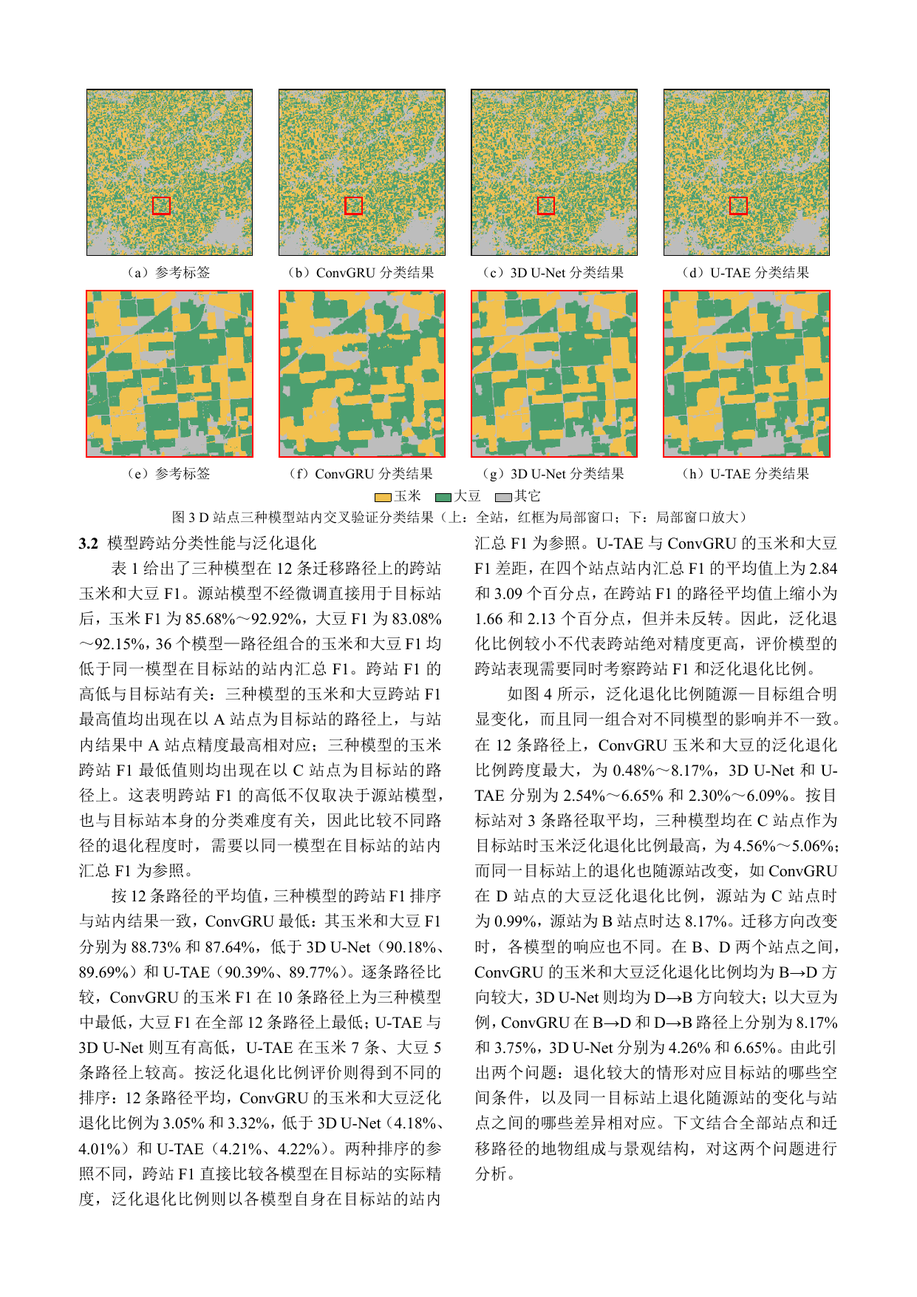
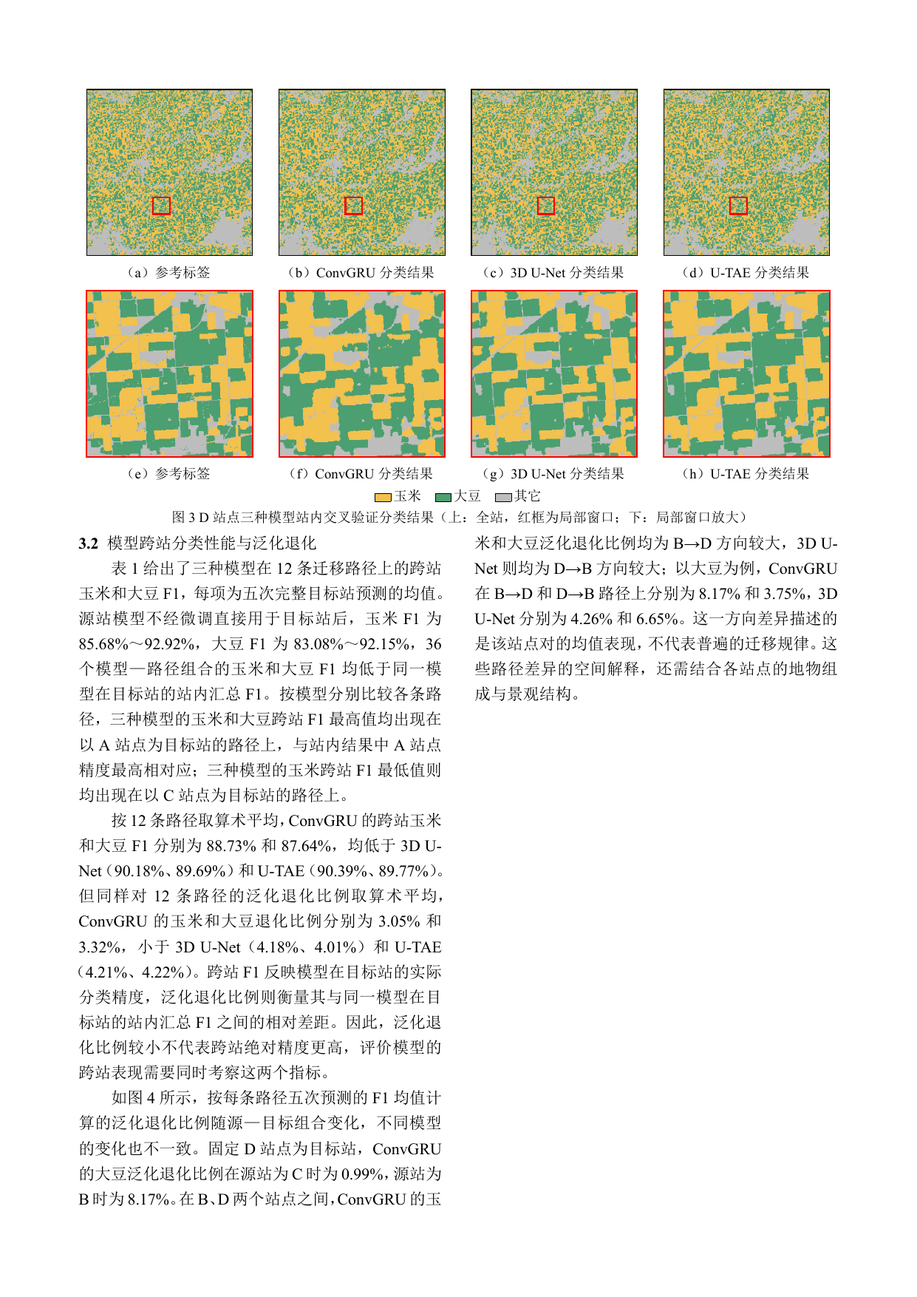
收紧3.2论述并完成数字、版面与预览核查
保留三段、完整跨站F1表和六子图，删除过度解释及重复数字；同步写作规则、旧稿使用边界和交接状态。记录本轮summary核对、编译结果及预览哈希，保留既有验证历史。

Changed region(s): [[0.0919, 0.431, 0.4899, 0.9544], [0.5205, 0.4002, 0.9186, 0.9236]]

diff --git a/sections/04_results.tex b/sections/04_results.tex
@@ -83,7 +83,7 @@
 %       results/summary/crop_f1_relative_degradation_36paths.csv（图 4，泛化退化比例）
 % 数字 2026-09-27 从上述文件现算；第一段范围取表内 36 格，最高值、最低值所在路径按模型逐一核对。
 
-表\ref{tab:cross_site_f1_paths}给出了三种模型在12条迁移路径上的跨站玉米和大豆F1。源站模型不经微调直接用于目标站后，玉米F1为85.68\%～92.92\%，大豆F1为83.08\%～92.15\%，36个模型—路径组合的玉米和大豆F1均低于同一模型在目标站的站内汇总F1。跨站F1的高低与目标站有关：三种模型的玉米和大豆跨站F1最高值均出现在以A站点为目标站的路径上，与站内结果中A站点精度最高相对应；三种模型的玉米跨站F1最低值则均出现在以C站点为目标站的路径上。这表明跨站F1的高低不仅取决于源站模型，也与目标站本身的分类难度有关，因此比较不同路径的退化程度时，需要以同一模型在目标站的站内汇总F1为参照。
+表\ref{tab:cross_site_f1_paths}给出了三种模型在12条迁移路径上的跨站玉米和大豆F1，每项为五次完整目标站预测的均值。源站模型不经微调直接用于目标站后，玉米F1为85.68\%～92.92\%，大豆F1为83.08\%～92.15\%，36个模型—路径组合的玉米和大豆F1均低于同一模型在目标站的站内汇总F1。按模型分别比较各条路径，三种模型的玉米和大豆跨站F1最高值均出现在以A站点为目标站的路径上，与站内结果中A站点精度最高相对应；三种模型的玉米跨站F1最低值则均出现在以C站点为目标站的路径上。
 
 \begin{table*}[tbp]
 \centering
@@ -108,20 +108,15 @@
 \end{table*}
 
 % 第二段：12 条路径平均跨站 F1（表末行）；平均泛化退化比例 = 12 条路径比例的算术平均。
-% 站内差距用四站点站内汇总 F1 平均值（每个目标站在 12 条路径中各出现 3 次，与路径平均的基准一致）：
-%   U-TAE − ConvGRU 站内 2.84 / 3.09 个百分点，跨站 1.66 / 2.13 个百分点（玉米 / 大豆）。
-% 路径计数只作描述，不作独立重复试验；本文不使用 Friedman / Wilcoxon–Holm 结果。
+% 两种排序分别对应实际精度与相对同一模型目标站当地训练基准的差距。
 
-按12条路径的平均值，三种模型的跨站F1排序与站内结果一致，ConvGRU最低：其玉米和大豆F1分别为88.73\%和87.64\%，低于3D U-Net（90.18\%、89.69\%）和U-TAE（90.39\%、89.77\%）。逐条路径比较，ConvGRU的玉米F1在10条路径上为三种模型中最低，大豆F1在全部12条路径上最低；U-TAE与3D U-Net则互有高低，U-TAE在玉米7条、大豆5条路径上较高。按泛化退化比例评价则得到不同的排序：12条路径平均，ConvGRU的玉米和大豆泛化退化比例为3.05\%和3.32\%，低于3D U-Net（4.18\%、4.01\%）和U-TAE（4.21\%、4.22\%）。两种排序的参照不同，跨站F1直接比较各模型在目标站的实际精度，泛化退化比例则以各模型自身在目标站的站内汇总F1为参照。U-TAE与ConvGRU的玉米和大豆F1差距，在四个站点站内汇总F1的平均值上为2.84和3.09个百分点，在跨站F1的路径平均值上缩小为1.66和2.13个百分点，但并未反转。因此，泛化退化比例较小不代表跨站绝对精度更高，评价模型的跨站表现需要同时考察跨站F1和泛化退化比例。
+按12条路径取算术平均，ConvGRU的跨站玉米和大豆F1分别为88.73\%和87.64\%，均低于3D U-Net（90.18\%、89.69\%）和U-TAE（90.39\%、89.77\%）。但同样对12条路径的泛化退化比例取算术平均，ConvGRU的玉米和大豆退化比例分别为3.05\%和3.32\%，小于3D U-Net（4.18\%、4.01\%）和U-TAE（4.21\%、4.22\%）。跨站F1反映模型在目标站的实际分类精度，泛化退化比例则衡量其与同一模型在目标站的站内汇总F1之间的相对差距。因此，泛化退化比例较小不代表跨站绝对精度更高，评价模型的跨站表现需要同时考察这两个指标。
 
 % 第三段：图 4 数据 results/summary/crop_f1_relative_degradation_36paths.csv。
-% 比例跨度：ConvGRU 0.48–8.17（玉米 0.72–5.83，大豆 0.48–8.17）；3D U-Net 2.54–6.65；U-TAE 2.30–6.09。
-% 按目标站对 3 条路径取平均的玉米比例，三模型均以 C 最高：ConvGRU 4.56、3D U-Net 5.03、U-TAE 5.06。
-% ConvGRU 大豆、目标站 D：C→D 5 次为 0.86–1.09，B→D 为 3.63–11.95。
-% B、D 之间方向：ConvGRU 玉米、大豆均 B→D 较大，3D U-Net 均 D→B 较大；玉米两模型 5 次预测完全分开，大豆各有 1 次重叠。
-%   U-TAE 的方向差异主要由单次预测拉动（玉米 B→D 5 次 4.20–7.66，D→B 3.45–4.74），正文不用作方向证据。
+% 固定目标站 D：ConvGRU 大豆 C→D 0.99%、B→D 8.17%。
+% B↔D：ConvGRU 玉米、大豆均 B→D 较大，3D U-Net 均 D→B 较大；比较基于各路径五次预测均值。
 
-如图\ref{fig:degradation_heatmap}所示，泛化退化比例随源—目标组合明显变化，而且同一组合对不同模型的影响并不一致。在12条路径上，ConvGRU玉米和大豆的泛化退化比例跨度最大，为0.48\%～8.17\%，3D U-Net和U-TAE分别为2.54\%～6.65\%和2.30\%～6.09\%。按目标站对3条路径取平均，三种模型均在C站点作为目标站时玉米泛化退化比例最高，为4.56\%～5.06\%；而同一目标站上的退化也随源站改变，如ConvGRU在D站点的大豆泛化退化比例，源站为C站点时为0.99\%，源站为B站点时达8.17\%。迁移方向改变时，各模型的响应也不同。在B、D两个站点之间，ConvGRU的玉米和大豆泛化退化比例均为B→D方向较大，3D U-Net则均为D→B方向较大；以大豆为例，ConvGRU在B→D和D→B路径上分别为8.17\%和3.75\%，3D U-Net分别为4.26\%和6.65\%。由此引出两个问题：退化较大的情形对应目标站的哪些空间条件，以及同一目标站上退化随源站的变化与站点之间的哪些差异相对应。下文结合全部站点和迁移路径的地物组成与景观结构，对这两个问题进行分析。
+如图\ref{fig:degradation_heatmap}所示，按每条路径五次预测的F1均值计算的泛化退化比例随源—目标组合变化，不同模型的变化也不一致。固定D站点为目标站，ConvGRU的大豆泛化退化比例在源站为C时为0.99\%，源站为B时为8.17\%。在B、D两个站点之间，ConvGRU的玉米和大豆泛化退化比例均为B→D方向较大，3D U-Net则均为D→B方向较大；以大豆为例，ConvGRU在B→D和D→B路径上分别为8.17\%和3.75\%，3D U-Net分别为4.26\%和6.65\%。这一方向差异描述的是该站点对的均值表现，不代表普遍的迁移规律。这些路径差异的空间解释，还需结合各站点的地物组成与景观结构。
 
 \begin{figure*}[tbp]
 \centering

diff --git a/verification/verification-report.md b/verification/verification-report.md
@@ -21,3 +21,39 @@
 | main.tex 编译（含 3.1 图文） | latexmk -xelatex，exit 0 | Verified | 2026-09-19 | — |
 | citation key | 与 references.bib 核对 | Not verified | — | bib 已导入 71 条，正文尚无 \cite |
 | 正文数字可追溯 | 与 results/summary 核对 | Partially verified | 2026-09-19 | 3.1 已核；3.2、3.3 未写 |
+
+## 3.2 收尾验证（2026-09-29）
+
+本轮状态：**Verified（限本轮 3.2 收尾范围）**。以上表格保留为历史记录，其中“3.2 未写”“36 路径”和旧 ΔF1 图口径不作为当前状态。当前跨站实验为 12 条有向迁移路径、36 个模型—路径组合，每组合五次完整目标站预测；正文采用跨站绝对 F1 + 泛化退化比例 DR。
+
+### 本轮实际执行
+
+| 验证对象 | 验证方式与范围 | 结果 |
+|---|---|---|
+| 三段正文数字与比较 | 从当前 summary 只读复算，逐段匹配全部 22 处百分数；核对 12 条路径、36 个组合、每组合五次预测、全部 72 个跨站 F1 低于同一模型目标站基准、A 站最高值及 C 站玉米最低值 | Verified |
+| 模型均值与方向 | 分别计算每模型 12 条路径平均 F1、平均 DR；核对固定目标站 D 的 ConvGRU 大豆 C→D/B→D，以及 ConvGRU、3D U-Net 玉米和大豆的 B↔D 方向 | Verified |
+| 五次均值口径与 DR 公式 | 180 行 `cross_site_crop_f1_per_fold.csv` 按 36 个组合核对每组五个折，重算均值和样本标准差，与 summary 的最大差异分别为 6.0×10⁻⁷、6.71×10⁻⁷；72 个 DR 与目标站基准公式的最大差异 4.94×10⁻⁷（百分数单位），均在六位小数导出舍入容差内 | Verified |
+| 完整跨站 F1 表 | 72 个路径精度值及 6 个模型均值逐格对照 summary、CSV 和 LaTeX 表体，同时核对源—目标路径标签 | Verified |
+| 六子图热力图 | 直接读取现有六个子图 PDF：72 个数值及其源站行、目标站列坐标与 DR summary 一致；图件未重新绘制 | Verified |
+| 正文边界与相关规则 | 三段保留；不作分类难度归因、不称 DR 消除站点差异、不以 DR 小判断泛化更强、不推广方向规律；相关计划与风格条目已同步，旧稿迁移安排已标为停用历史 | Verified |
+| 修改范围 | 与基线 `92b58a2` 对照：3.1、3.3、方法、实验数据、处理脚本、表体、正式图件、主文件和 `.gitignore` 未变；未改变早停或实验设计 | Verified |
+| 编译与交叉引用 | `latexmk -xelatex -interaction=nonstopmode -halt-on-error main.tex`，exit 0，6 页；日志无 Overfull/Underfull、未定义引用或 LaTeX 错误；辅助文件确认图 3/3.2 在第 4 页、表 1/图 4 在第 5 页、3.3 标题在第 6 页 | Verified |
+| 当前版面与预览 | 从本轮 `main.pdf` 渲染第 3—5 页并逐页查看：标题归属和图表顺序正确，无文字截断或溢出；通栏表图延后，未调整间距强行塞页。另独立逐页渲染，PNG 的 SHA-256 与保存预览逐一一致 | Verified |
+
+正文数值复算结果（模型顺序 ConvGRU / 3D U-Net / U-TAE）：跨站玉米 F1 范围 85.68%～92.92%，大豆 83.08%～92.15%；路径平均玉米 F1 为 88.73% / 90.18% / 90.39%，大豆为 87.64% / 89.69% / 89.77%；平均玉米 DR 为 3.05% / 4.18% / 4.21%，大豆为 3.32% / 4.01% / 4.22%。ConvGRU 大豆 C→D 为 0.99%，B→D 为 8.17%，D→B 为 3.75%；3D U-Net 大豆 B→D 为 4.26%，D→B 为 6.65%。
+
+执行说明：两次内联核查先后因正文行定位未匹配、正则转义而报 `StopIteration`、`re.error: bad escape \\l`，均未作为通过依据；随后在系统临时目录运行明确定位正文和图表结构的两份只读核查脚本，以上断言全部通过。`git diff --check` 首次发现本报告末尾多余空行，修正后复查通过。临时核查脚本不属于实验数据处理链。
+
+### 编译产物与预览绑定
+
[1 lines of base64/hex data omitted]
+- 当前预览：`output/sec32_p-{3,4,5}.png`，2026-09-29 01:36:08—09 +08:00 由上述 PDF 以 150 dpi 渲染。第 4 页为图 3 与 3.2 三段正文，第 5 页为完整跨站 F1 表和图 4。
+- `output/table_page_preview.png`、`output/figure4_page_preview.png` 同步为当前第 5 页的逐字节副本。`results_layout-*`、`results_spacing-*` 仅为保留的历史预览。
+- `output/preview-manifest.json` 记录 PDF、源码锚点、所有当前预览的哈希和生成时间。构建基线为 `92b58a2` 加本轮工作区修改；构建时未提交，不把基线提交本身误称为这次 PDF 对应的完整版本。
+- 现有告警仍为 xeCJK 字体族重定义、SimSun/SimHei 字形替代和空参考文献。它们不影响本轮 3.2 的数字及版面核对，但本轮没有消除这些全文层面问题。
+
+### 既有验证与未验证项
+
+- 既有 raw→summary 全链验证：引用 `plan/progress.md` 中“3.2 起草与接手核查（2026-09-26—27）”及 `plan/claims.md` C4 的记录；原记录包含上游与 raw 逐项一致、站内汇总矩阵等于五折之和、由混淆矩阵重算 F1/OA/DR。**本轮未重跑该全链**，只核对数据与处理脚本未变，并执行以上 summary→正文/图表的检查。
+- **Not verified（本轮未执行）**：重新训练、外部原始实验复跑、文献元数据与全文引用验证、研究区图和其它章节的全面审查、3.3 空间分析与分组处理链。未把这些项目列为本轮完成。
+- 历史核查记录不覆盖或删除；3.2 本轮技术验证完成不等于整篇论文定稿。

diff --git a/HANDOVER.md b/HANDOVER.md
@@ -1,6 +1,6 @@
 # 论文写作系统交接文档
 
-**最后更新**：2026-09-28
+**最后更新**：2026-09-29
 
 ## 一句话状态
 
@@ -30,11 +30,11 @@
 - 3.1 已润色定稿：第一段讲三模型共同表现，第二段结合图 3 讲差异。
 - 图 2、图 3 已按 3.8 cm 基本单元、逐子图 PDF、LaTeX 文本图题与图例的规范提交。
 - 结果章固定为 3.1—3.3，当前不设第三级标题。
-- 3.2 三段草稿已写（2026-09-27，待作者审阅），标题已移出表格浮动体、回到正文段首。第一段引表讲跨站绝对 F1 与全部组合低于目标站站内基准；第二段比较路径平均跨站 F1 与平均泛化退化比例 DR 两种排序；第三段引图 4 讲源—目标组合与迁移方向差异，引出 3.3 两个问题。
+- 3.2 三段已完成本轮收尾（2026-09-29，待作者审阅）。第一段只报告跨站 F1、目标站基准及 A/C 站观察，不推断分类难度；第二段集中比较 12 条路径的平均 F1 与平均 DR，删去重复排名和模型差距数字；第三段保留固定目标站 D 的源站差异与 B↔D 两模型方向差异，限于五次预测均值，用一句话衔接空间分析。
 - 作者决定（2026-09-27）：正文只用跨站绝对 F1 + DR；方法删去 ΔF1 独立公式和 Friedman/Wilcoxon–Holm 段落，脚本与结果文件保留追溯；正文不作显著性结论，路径计数只作描述；写“DR 较小不代表跨站绝对精度更高”。
 - 四站所在州已按研究区 SHP / 标签 GeoTIFF 叠加州界核实，`02_data.tex` 原“明尼苏达州”已改正。
 - 3.3 回答两个问题并覆盖全部站点和路径：目标站在哪些空间条件下退化较大；同一目标站的退化随源站变化与站点间哪些差异相对应。数据已生成但未入库：站点级 `D:/label/fragstats_results/`，图块级 `D:/cross_site_all_20260916/paper_tables/Patch级空间误差底表/`；分组 F1 处理链待建。
-- 图表位置：3.1 第一段 → 图 2 → 第二段 → 图 3；3.2 标题 → 第一段 → 表 → 第二、三段 → 图 4 → 3.3。标题移动后尚未编译复核分页。
+- 图表位置已编译核查（2026-09-29）：新 PDF 第 4 页为图 3 与 3.2 三段正文，第 5 页为表 1 和图 4，第 6 页起为 3.3 标题。允许通栏表图延后，未调整间距强行塞页；无未定义引用、文字截断或溢出。当前预览 `output/sec32_p-{3,4,5}.png` 及两个表图预览入口均来自新 PDF；生成时间、哈希与构建时版本状态见 `output/preview-manifest.json`，不用历史 `results_layout-*`、`results_spacing-*` 判断当前版面。
 - 引言、1.3、2.1 三模型、结论与摘要尚未完成。
 - 段落与各级标题前后间距统一为 0 pt，取消栏底对齐和浮动页间距拉伸；图表间距固定 3 pt（2026-09-23）。
 
@@ -51,7 +51,7 @@
 - `tables/table2_cross_site_summary.csv`：模型与作物汇总，只作分析备查。
 - `tables/table3_significance_tests.csv`：Friedman、Wilcoxon 与 Holm 校正结果，仅供追溯，不进入正文。
 
-数据处理链已从原始混淆矩阵重算验证（2026-09-26）；类别顺序为玉米、其它、大豆。退化必须以同一模型在目标站的站内汇总 F1 为基准，它是相对当地训练基准的差距，不是理论上限。
+数据处理链的既有验证见 `plan/progress.md` 2026-09-26—27 记录；类别顺序为玉米、其它、大豆。2026-09-29 本轮从 summary 核对 3.2 全部数值、表格和热力图，未重跑 raw→summary 全链；实验数据、处理脚本和正式图件未变。退化以同一模型在目标站的站内汇总 F1 为基准，表示相对当地训练基准的差距，不是理论上限，也不意味着已消除目标站差异。详细范围与未验证项见 `verification/verification-report.md` 本轮记录。
 
 ## 写作入口
 
@@ -66,10 +66,10 @@
 
 ## 下一步
 
-1. 作者审阅 3.2 草稿；编译复核图表位置与分页。
-2. 建立 3.3 分组处理链（先汇总混淆矩阵再算类别 F1），覆盖全部站点与路径，完成 3.3。
+1. 作者审阅 3.2 收尾稿；本轮数字与版面已核查，当前 PDF、预览和验证范围均已记录。
+2. 3.3 分组处理链与正文留待后续任务，本轮未扩展。
 3. 完成引言、1.3、2.1、结论与摘要，投稿空间泛化篇。
 
 ## Git 追溯
 
-作者要求整个写作系统的有效改动入库，任务收尾时核对暂存区、工作区和未跟踪文件均为空。参考论文 PDF、编译辅助文件及指定名称的页面预览在 `.gitignore` 中排除；正式图件、文献库和全部计划继续跟踪。范围与预览重建命令见 `README.md`。禁止用删除文件或忽略正文、计划、结果数据的方式制造干净状态；不 push。
+作者要求整个写作系统的有效改动入库，任务收尾时核对暂存区、工作区和未跟踪文件均为空。参考论文 PDF、编译辅助文件及指定名称的页面预览按既有规则排除；已跟踪的 `output/sec32_p-{3,4,5}.png` 继续更新并入库，`output/preview-manifest.json` 同步记录其来源。正式图件、文献库和全部计划继续跟踪。范围与预览重建命令见 `README.md`。禁止用删除文件或新增忽略规则制造干净状态；不 push。

diff --git a/plan/progress.md b/plan/progress.md
@@ -1,6 +1,6 @@
 # 项目进度
 
-本项目仅推进美国四站点空间泛化论文，当前重点为作者审阅 3.2 草稿和建立 3.3 空间解释的分组处理链。
+本项目仅推进美国四站点空间泛化论文。2026-09-29 已完成 3.2 最小范围收尾、数字核对、编译和当前预览更新，待作者审阅；3.3 未扩展。
 
 ## 阶段状态
 
@@ -14,17 +14,26 @@
 | 表格 | 已完成 | 3.2 正文采用 12 路径跨站 F1 完整表；模型汇总表和显著性表只作分析备查 |
 | 图 | 部分完成 | 图 2、图 3 已按定稿规范提交；图 4 为泛化退化比例热力图，两行三列、图框各 3.8 cm，上玉米下大豆；研究区图待复核，模型结构图待提取 |
 | 3.3 数据 | 已定位 | 站点级 FRAGSTATS 与图块级四张表已生成但未入库（路径见 claims C8）；分组 F1 处理链待建 |
-| 第 3 章正文 | 进行中 | 结果章固定为 3.1—3.3，不设第三级标题；3.1 已定稿；3.2 三段草稿已写（2026-09-27），待作者审阅；3.3 待写 |
+| 第 3 章正文 | 进行中 | 结果章固定为 3.1—3.3，不设第三级标题；3.1 已定稿；3.2 三段已收紧并完成本轮验证（2026-09-29），待作者审阅；3.3 本轮未写 |
 | 引言 / 结论 | 未开始 | — |
 | 文献 | 部分完成 | references.bib 当前共 73 条；五篇核心参考已建 evidence-map E1–E5；风格报告 3/5 篇 |
-| 审查 | 未开始 | — |
+| 审查 | 部分完成 | 2026-09-29 完成 3.2 本轮数字、口径、编译及预览检查；全文审查未开展 |
 | Word 输出 | 未开始 | — |
 
 ## 下一步
 
-1. 作者审阅 3.2 草稿；编译复核 3.2 标题移出浮动体后的图表位置与分页。
-2. 建立 3.3 分组处理链：按空间特征分组先汇总混淆矩阵再算类别 F1，覆盖全部站点和 12 条路径，回答两个问题（目标站空间条件；同一目标站随源站变化的对应因素）。
+1. 作者审阅已完成本轮收尾和验证的 3.2；当前 PDF 与预览入口见 `README.md`，版本绑定见 `output/preview-manifest.json`。不再沿用“尚未编译”的历史状态。
+2. 3.3 分组处理链与正文留待后续任务：按空间特征分组先汇总混淆矩阵再算类别 F1，覆盖全部站点和 12 条路径，回答目标站空间条件与站点间差异两个问题；本轮未开展。
 3. 完成引言、2.1 三模型、1.3 研究区空间特征、结论和摘要。
+
+## 3.2 最小范围收尾（2026-09-29）
+
+- Verified：保留三段、完整 F1 表和六子图。第一段删除分类难度推断；第二段只保留平均 F1 与平均 DR 的核心比较，移除重复路径计数及站内外差距成组数字；第三段保留目标站 D 的源站差异及 B↔D 两模型方向差异，明确五次预测均值与站点对边界，以一句话衔接空间分析。
+- Verified：当前 summary 复算与正文 22 处百分数一致，72 个跨站 F1 均低于相同模型的目标站站内基准；模型均值与方向正确。180 行逐次 summary 与五次均值/标准差一致（六位小数舍入容差内），72 个 DR 与公式一致；表中 72 个精度值及 6 个均值、热力图 72 个标注与行列位置全部核对。
+- Verified：`latexmk -xelatex -interaction=nonstopmode -halt-on-error main.tex` exit 0，PDF 6 页；第 4 页图 3 与 3.2 正文、第 5 页表 1 与图 4、第 6 页 3.3 标题；无 Overfull/Underfull、未定义引用、文字截断或溢出。保留现有字体替代与空参考文献告警，未改变间距或图表结构。
+- Verified：当前 `output/sec32_p-{3,4,5}.png` 从本轮 PDF 重新渲染，逐页独立复渲染的 SHA-256 相同；表格和图 4 的旧入口同步为新第 5 页。时间、PDF/源码/PNG 哈希和构建时版本状态见 `output/preview-manifest.json`；`results_layout-*`、`results_spacing-*` 仅作历史预览。
+- 已同步 style-guide 的显著性与退化差值旧指令、summary 说明的路径数量、README 的旧 Word 用途和预览入口；旧稿迁移地图整体标为停用历史，不删除原记录。claims、results-map、outline、paper-context、format-spec 与 HANDOVER 对齐本轮三段安排和实际状态。
+- 本轮未改实验数据、方法、早停、处理脚本、表体和正式图件；未扩展 3.3。raw→summary 全链引用下方 2026-09-26—27 的既有验证，本轮未重跑；文献与全文审查未执行。详见 `verification/verification-report.md` 本轮记录。
 
 ## 3.2 起草与接手核查（2026-09-26—27）
 

diff --git a/README.md b/README.md
@@ -11,7 +11,7 @@
 ├── main.tex               # LaTeX 主文件（XeLaTeX + ctex）
 ├── sections/              # 论文各章节 .tex 文件
 ├── plan/                  # 论文规划（大纲、术语、迁移地图等）
-├── legacy/manuscript/     # 旧 Word 论文（写作模式 + 格式基准 + 内容来源）
+├── legacy/manuscript/     # 旧 Word 论文（仅参考写作风格和格式，不作为内容来源）
 ├── evidence/              # 文献证据映射
 ├── bibliography/          # BibTeX 文献数据库
 ├── results/               # 实验数据（raw → processed → summary）
@@ -26,7 +26,7 @@
 ## 工作流
 
 ```
-旧 Word → plan → evidence → results → tables/figures
+论文问题与实验事实 → plan → evidence / results → tables/figures
                                           ↓
                                     sections/*.tex
                                           ↓
@@ -54,7 +54,14 @@ Zotero → Better BibTeX → Keep Updated → `bibliography/references.bib`
 
 正文、论文计划、交接与验证记录、文献库、数据处理脚本、结果汇总、表格和正式图件均纳入版本控制。参考论文 PDF 只保留在本地，文献元数据与阅读记录继续跟踪；已移出索引的 PDF 仍可从既有提交中追溯。
 
-`main.pdf`、LaTeX 辅助文件和 `output/` 下的页面预览不入库。页面预览由已跟踪的 LaTeX 与正式图件重新生成；只忽略指定预览文件名，不整体忽略 `output/`。编译命令为 `latexmk -xelatex -interaction=nonstopmode -halt-on-error main.tex`，页面预览可用 `pdftoppm -f 页码 -singlefile -png -r 160 main.pdf output/名称_page_preview` 导出。
+`main.pdf`、LaTeX 辅助文件和 `.gitignore` 已指定的页面预览不入库；已由 `92b58a2` 跟踪的 `output/sec32_p-{3,4,5}.png` 本轮继续跟踪并更新，不移出索引。`output/preview-manifest.json` 记录当前 PDF、源码和预览的 SHA-256、生成时间、页码及构建时版本状态。未新增忽略规则，也不整体忽略 `output/`。
+
+### 当前 3.2 PDF 与预览（2026-09-29）
+
+- [当前 PDF](main.pdf)：本轮编译生成，6 页；第 4 页为图 3 与 3.2 正文，第 5 页为完整跨站 F1 表与图 4。
+- [第 3 页](output/sec32_p-3.png)、[第 4 页正文](output/sec32_p-4.png)、[第 5 页表与图](output/sec32_p-5.png)：均从该 PDF 以 150 dpi 导出。
+- `output/table_page_preview.png`、`output/figure4_page_preview.png` 同步为当前第 5 页的副本；`results_layout-*`、`results_spacing-*` 保留为历史预览，不作为当前版面依据。
+- 编译：`latexmk -xelatex -interaction=nonstopmode -halt-on-error main.tex`。渲染：`pdftoppm -png -r 150 -f 3 -l 5 main.pdf output/sec32_p`。每次重建后按实际分页更新预览入口和 [预览清单](output/preview-manifest.json)，不得只更新 PDF 而继续使用旧 PNG。
 
 提交后以 `git status --porcelain=v1 --untracked-files=all` 输出为空核对工作区干净。未经作者指示不 push。
 
@@ -64,4 +71,4 @@ Zotero → Better BibTeX → Keep Updated → `bibliography/references.bib`
 - 真实数据优于旧正文
 - 验证优于"看起来完成"
 - 论文正文和项目管理信息严格分离
-- 旧 Word 决定写作模式和最终格式
+- 旧 Word 仅参考写作风格和最终格式，不迁移论点、数据或正文；`plan/migration-map.md` 仅保留已停用的历史安排

diff --git a/plan/results-map.md b/plan/results-map.md
@@ -38,12 +38,12 @@
 
 **图**：`figures/results/fig_degradation_heatmap_{a..f}.pdf` + `_cbar.pdf`。两行三列，上排玉米、下排大豆，各列依次为 ConvGRU、3D U-Net、U-TAE；图框各 3.8×3.8 cm（1 UNIT），两排下方共用横向色标，LaTeX 标签“泛化退化比例/%”。图示相对退化比例，用于比较源—目标组合差异及不同模型对迁移方向的响应，不据此判断区域组合与模型的影响主次。
 
-**正文组织**（2026-09-27 起草，不用第三级标题）：
-1. 跨站绝对 F1 范围，36 个组合全部低于目标站站内基准，跨站 F1 高低与目标站有关（引表）—— C4
-2. 路径平均的跨站 F1 排序与平均 DR 排序的区别；DR 较小不代表跨站绝对精度更高 —— C5、C6
-3. 源—目标组合与迁移方向差异（引图 4），引出 3.3 两个问题 —— C7
+**正文组织**（2026-09-29 收紧，保留三段，不用第三级标题）：
+1. 跨站绝对 F1 范围，36 个组合全部低于同一模型目标站站内基准，A、C 站表现及与站内结果的对应（引表）；不据此推断分类难度，不声称 DR 消除了目标站差异 —— C4
+2. 12 条路径平均，ConvGRU 跨站 F1 最低、平均 DR 最小；DR 较小不代表跨站绝对精度更高。仅保留两类模型均值，不重复逐路径排名或站内外差距数字 —— C5、C6
+3. 源—目标组合与模型间的退化差异（引图 4）：固定目标站 D 的 ConvGRU 大豆例子、B↔D 两模型方向不同的证据；明确五次预测均值口径，不推广为普遍规律，以一句话衔接空间分析 —— C7
 
-**位置**：3.2 标题 → 第一段 → 表 → 第二段 → 第三段 → 图 4 → `\FloatBarrier` → 3.3。标题已移出表格浮动体（2026-09-27）；版面与分页未编译复核。
+**位置与核查**：源码顺序仍为 3.2 标题 → 第一段 → 表 → 第二、三段 → 图 4 → `\FloatBarrier` → 3.3。Verified（2026-09-29）：新编译 PDF 第 4 页为图 3 与 3.2 三段正文，第 5 页为表 1 和图 4，第 6 页起为 3.3 标题；通栏浮动体延后但未越出小节，未强行调整间距。当前预览为 `output/sec32_p-{3,4,5}.png`，与 PDF 的页码及哈希绑定见 `output/preview-manifest.json`。
 
 **要点**：见 claims.md C4–C7。
 

diff --git a/results/summary/README.md b/results/summary/README.md
@@ -9,9 +9,11 @@
 | `within_site_crop_f1.csv` | 12 组站内 OOF pooled 玉米 F1 / 大豆 F1 / 其它 F1 / OA | `calculate_crop_f1.py` | `results/raw/within_site_confusion_matrices.csv` ← `D:/20{site}/…/metrics_summary.csv` |
 | `within_site_crop_f1_fold_stats.csv` | 12 组五折 mean±std | 同上 | 同上 |
 | `cross_site_crop_f1_per_fold.csv` | 180 行 checkpoint 级 F1 | `extract_cross_site_cm.py` | `results/raw/cross_site_confusion_matrices.csv` ← `legacy/experiment-results/cross_site_all_20260916/` |
-| `cross_site_crop_f1_summary.csv` | 36 路径 mean±std（ddof=1） | 同上 | 同上 |
-| `crop_f1_degradation_36paths.csv` | 36 路径 ΔF1（pp）及站内、跨站 F1 | `calculate_crop_f1_degradation.py` | 上两者 |
-| `crop_f1_relative_degradation_36paths.csv` | derived：36 路径相对退化比例（%）及站内、跨站 F1；图 4 数据 | 同上 | `within_site_crop_f1.csv` + `cross_site_crop_f1_summary.csv` |
+| `cross_site_crop_f1_summary.csv` | 12 条有向迁移路径、36 个模型—路径组合的 mean±std（每组合 5 次预测，ddof=1） | 同上 | 同上 |
+| `crop_f1_degradation_36paths.csv` | 36 个模型—路径组合的 ΔF1（pp）及站内、跨站 F1；仅供追溯，正文不用 | `calculate_crop_f1_degradation.py` | 上两者 |
+| `crop_f1_relative_degradation_36paths.csv` | derived：36 个模型—路径组合的泛化退化比例 DR（%）及站内、跨站 F1；正文与图 4 数据 | 同上 | `within_site_crop_f1.csv` + `cross_site_crop_f1_summary.csv` |
+
+正文采用跨站绝对 F1 + 泛化退化比例 DR；上述跨站数据覆盖 12 条有向迁移路径、36 个模型—路径组合，原文件名中的 `36paths` 为历史命名，不表示 36 条独立迁移路径。百分点差值文件保留，数据和处理脚本不因文字口径同步而改动。
 
 相对退化比例为 `100 × (within_F1 - cross_mean_F1) / within_F1`，`within_F1` 取同一模型在目标站的站内汇总值。列 `corn_relative_loss_pct`、`soybean_relative_loss_pct` 分别对应玉米、大豆，单位 %；原 `*_loss_pp` 仍为百分点差值。模型平均比例为 12 条路径比例的算术平均。
 

diff --git a/plan/paper-context.md b/plan/paper-context.md
@@ -30,14 +30,14 @@
 - 站内汇总玉米 F1、大豆 F1、OA；五折均值 ± 标准差说明稳定性
 - 汇总 = 五个测试折混淆矩阵相加后算指标；五折均值只说稳定性，两口径不混
 
-### 3.2 跨站退化（数据就绪，已验证；正文 2026-09-27 起草）
+### 3.2 跨站退化（正文 2026-09-29 收紧；本轮验证范围见 verification/verification-report.md）
 
 - 每源站 5 个模型各预测完整目标站，36 个模型—路径组合，每组合 5 次预测的均值
 - 正文表按 12 条源—目标路径完整列出三模型的玉米和大豆 F1，末行给出路径平均
 - DR = 100 × (目标站站内汇总 F1 − 跨站 F1 五次均值) / 目标站站内汇总 F1，单位 %；方法中不再给出百分点差值 ΔF1 的独立公式，百分点文件保留备查；模型间 F1 差距用“个百分点”
 - 不作显著性结论：Friedman、Wilcoxon–Holm 结果保留仅供追溯（12 条路径共享 4 个站点，不独立）；路径计数只作描述
 - 6 子图退化比例热力图（两行三列、上玉米下大豆，图框各 3.8 cm，行源站列目标站）
-- 三段：① 跨站绝对 F1 与全部组合低于基准（引表）② 路径平均的跨站 F1 排序与平均 DR 排序的区别 ③ 源—目标组合与迁移方向差异（引图 4），引出 3.3 两个问题
+- 三段（2026-09-29 收紧）：① 跨站绝对 F1、全部组合低于同一模型目标站基准、A/C 站观察（引表），不直接推断分类难度 ② 12 条路径平均，ConvGRU 跨站 F1 最低而平均 DR 最小，不重复路径排名和站内外差距数字 ③ 源—目标组合差异及 B↔D 两模型方向不同的均值证据（引图 4），以一句话衔接空间分析，不推广为普遍规律
 
 ### 3.3 空间解释（数据已生成、未入库，分组处理链待建）
 

diff --git a/plan/style-guide.md b/plan/style-guide.md
@@ -11,7 +11,7 @@
 ### 中文优先
 
 - 正文术语用中文：站内、跨站、泛化退化、五折均值、汇总混淆矩阵、迁移路径、源站、目标站、折间标准差
-- 公式角标用中文，定语在前：$F1_{\text{站内玉米}}$、$\Delta F1_{\text{玉米}}$；不写 corn / within / cross
+- 公式角标用中文，定语在前：$F1_{\text{站内玉米}}$、$\mathrm{DR}_{\text{玉米}}$；不写 corn / within / cross
 - "fold"→折，"checkpoint"→模型/预测，"OOF"→交叉验证汇总；首次出现可括注英文
 - 保留英文的只有：模型名（U-TAE、3D U-Net、ConvGRU）、数据产品（HLS、CDL）、通用指标缩写（F1、OA）、软件名（PyTorch、FRAGSTATS）
 - 表格列名、图轴标签、图例同样中文
@@ -92,7 +92,7 @@
 | "本文创新性地提出" | 除非确实有创新 |
 | "值得注意的是" | 除非真正值得注意 |
 | "综上可知" | 只用在段尾或节尾总结 |
-| 翻译腔："统计学上的显著差异" | "差异显著" |
+| "统计学上的显著差异""差异显著""无显著差异" | 本篇不作显著性结论；按明确的对象与口径报告数值差异 |
 | "基于……的……"堆叠 | 拆成两句 |
 | "进行……处理" | 直接用动词 |
 | 空壳强调句 | 删 |
@@ -107,4 +107,4 @@
 
 五篇同领域中文核心期刊论文的摘录与分析在 `bibliography/writing-style-report.md`。用法：
 - 学**概念阐述方式**（泛化能力怎么定义、迁移怎么称呼）和**结果段从数字到解释的衔接**
-- 不照搬呈现形式：本文的退化差值、热力图、中文角标不变
+- 不照搬呈现形式：本文保留跨站绝对 F1 + 泛化退化比例 DR、完整跨站 F1 表、六子图热力图和中文角标；百分点差值文件仅供追溯，不恢复为正文指标

diff --git a/plan/claims.md b/plan/claims.md
@@ -152,7 +152,14 @@
 
 **状态**：Verified（2026-09-27）
 
-**正文位置**：C4—C7 归入 3.2 三段：第一段 C4（引表），第二段 C5、C6，第三段 C7（引图 4）并引出 3.3 的两个问题。
+**正文位置**：C4—C7 归入 3.2 三段：第一段 C4（引表），第二段 C5、C6，第三段 C7（引图 4），用一句话衔接空间分析。
+
+### 3.2 本轮取舍（2026-09-29）
+
+- C4：只保留跨站 F1 范围、全部组合低于同一模型目标站当地训练基准，以及 A、C 站的表现差异；不从精度排序直接推断目标站分类难度，不声称 DR 消除了目标站差异。
+- C5、C6：正文仅用 12 条路径的平均跨站 F1 与平均 DR 支撑“ConvGRU 跨站 F1 最低、平均 DR 最小；DR 较小不代表跨站绝对精度更高”。上列历史路径计数、站内外差距数字仅备查，不恢复到正文。D→B 大豆的 ConvGRU 与 3D U-Net 未舍入 F1 为 86.1899%、86.1929%，仅差 0.003 个百分点，表中均为 86.19%。
+- C7：保留固定目标站 D、更换源站 C/B 的 ConvGRU 大豆例子，以及 B↔D 两模型方向不同的证据；均以各路径五次预测的 F1 均值计算 DR，仅描述该站点对，不推广为普遍规律或因果解释。上列玉米、大豆合并的 DR 范围及按目标站平均的 DR 数字仅备查。
+- 三段不设三级标题，不改变完整表与六子图；3.3 正文与处理链不在本轮范围内。历史核查记录保留，本轮验证范围见 `verification/verification-report.md` 的 2026-09-29 记录。
 
 ## Claim 8：退化与目标站空间条件及源—目标站点差异的对应关系
 

diff --git a/plan/format-spec.md b/plan/format-spec.md
@@ -103,7 +103,7 @@
 - Word 模板正文通栏宽实测 17.399 cm，LaTeX 按 17.4 cm 排版；首页单栏宽 14.651 cm 不用于结果章。
 - 图 2 必须位于 3.1 第一段之后、第二段之前，采用随文 minipage 与 caption 保持阅读顺序。
 - 图 3 位于 3.1 第二段之后；3.2 前设置浮动体边界，防止图 3 越过小节。
-- 表 1 与图 4 位于 3.2；3.3 前设置浮动体边界。2026-09-27 起 3.2 标题位于正文段首（已移出表格浮动体），源码顺序为标题 → 第一段 → 表 → 第二、三段 → 图 4；移动后尚未编译复核图表位置。
+- 表 1 与图 4 位于 3.2；3.3 前设置浮动体边界。3.2 标题位于正文段首（2026-09-27 已移出表格浮动体），源码顺序为标题 → 第一段 → 表 → 第二、三段 → 图 4。双栏通栏表图允许延后，不强求表紧接第一段，也不靠缩放或反复调间距塞页；最新编译与分页核查见 `verification/verification-report.md` 和 `output/preview-manifest.json`。
 - 图 4 保留两行三列和 3.8 cm 有效图框，各列排版容器均分 17.4 cm 通栏宽（列容器之间 3 pt）；不缩放子图 PDF，文字仍为 9 pt。
 - 正文 `\parskip` 和各级标题 `beforeskip`、`afterskip` 均为 0 pt，采用 `\raggedbottom`；浮动体与正文、浮动页内图表之间固定 3 pt，取消可拉伸间隔。源码空行只用于分段，不代表打印空行（2026-09-23）。
 - Verified（2026-09-23）：编译与第 3—5 页渲染核查通过，无 Overfull/Underfull；阅读顺序为 3.1 第一段 → 图 2 → 第二段 → 图 3 → 3.2 与表 1 → 图 4 → 3.3。

diff --git a/plan/outline.md b/plan/outline.md
@@ -43,10 +43,10 @@
 
 ### 3.2 模型跨站分类性能与泛化退化
 - 12 条迁移路径完整精度表：三模型的玉米、大豆跨站 F1；末行给出路径平均
-- 第一段：跨站绝对 F1，36 个模型—路径组合全部低于目标站站内基准，跨站 F1 高低与目标站有关
-- 第二段：按路径平均的跨站 F1 排序与平均泛化退化比例排序的区别；比例较小不代表跨站绝对精度更高
-- 第三段：六子图热力图；源—目标组合与迁移方向差异，引出 3.3 两个问题
-- 不作显著性检验；路径计数只作描述
+- 第一段：跨站绝对 F1，36 个模型—路径组合全部低于同一模型目标站站内基准，A、C 站表现及与站内结果的对应；不据此推断分类难度
+- 第二段：按 12 条路径平均，ConvGRU 跨站 F1 最低、平均 DR 最小；比例较小不代表跨站绝对精度更高；不重复逐路径排名或站内外差距数字
+- 第三段：六子图热力图；固定目标站 D 的源站差异和 B↔D 两模型方向差异，限于五次预测均值，以一句话衔接空间分析
+- 不作显著性结论，不推广为普遍迁移规律或因果解释
 
 ### 3.3 模型跨站泛化差异的空间解释
 - 问题一：目标站在哪些空间条件下退化较大
